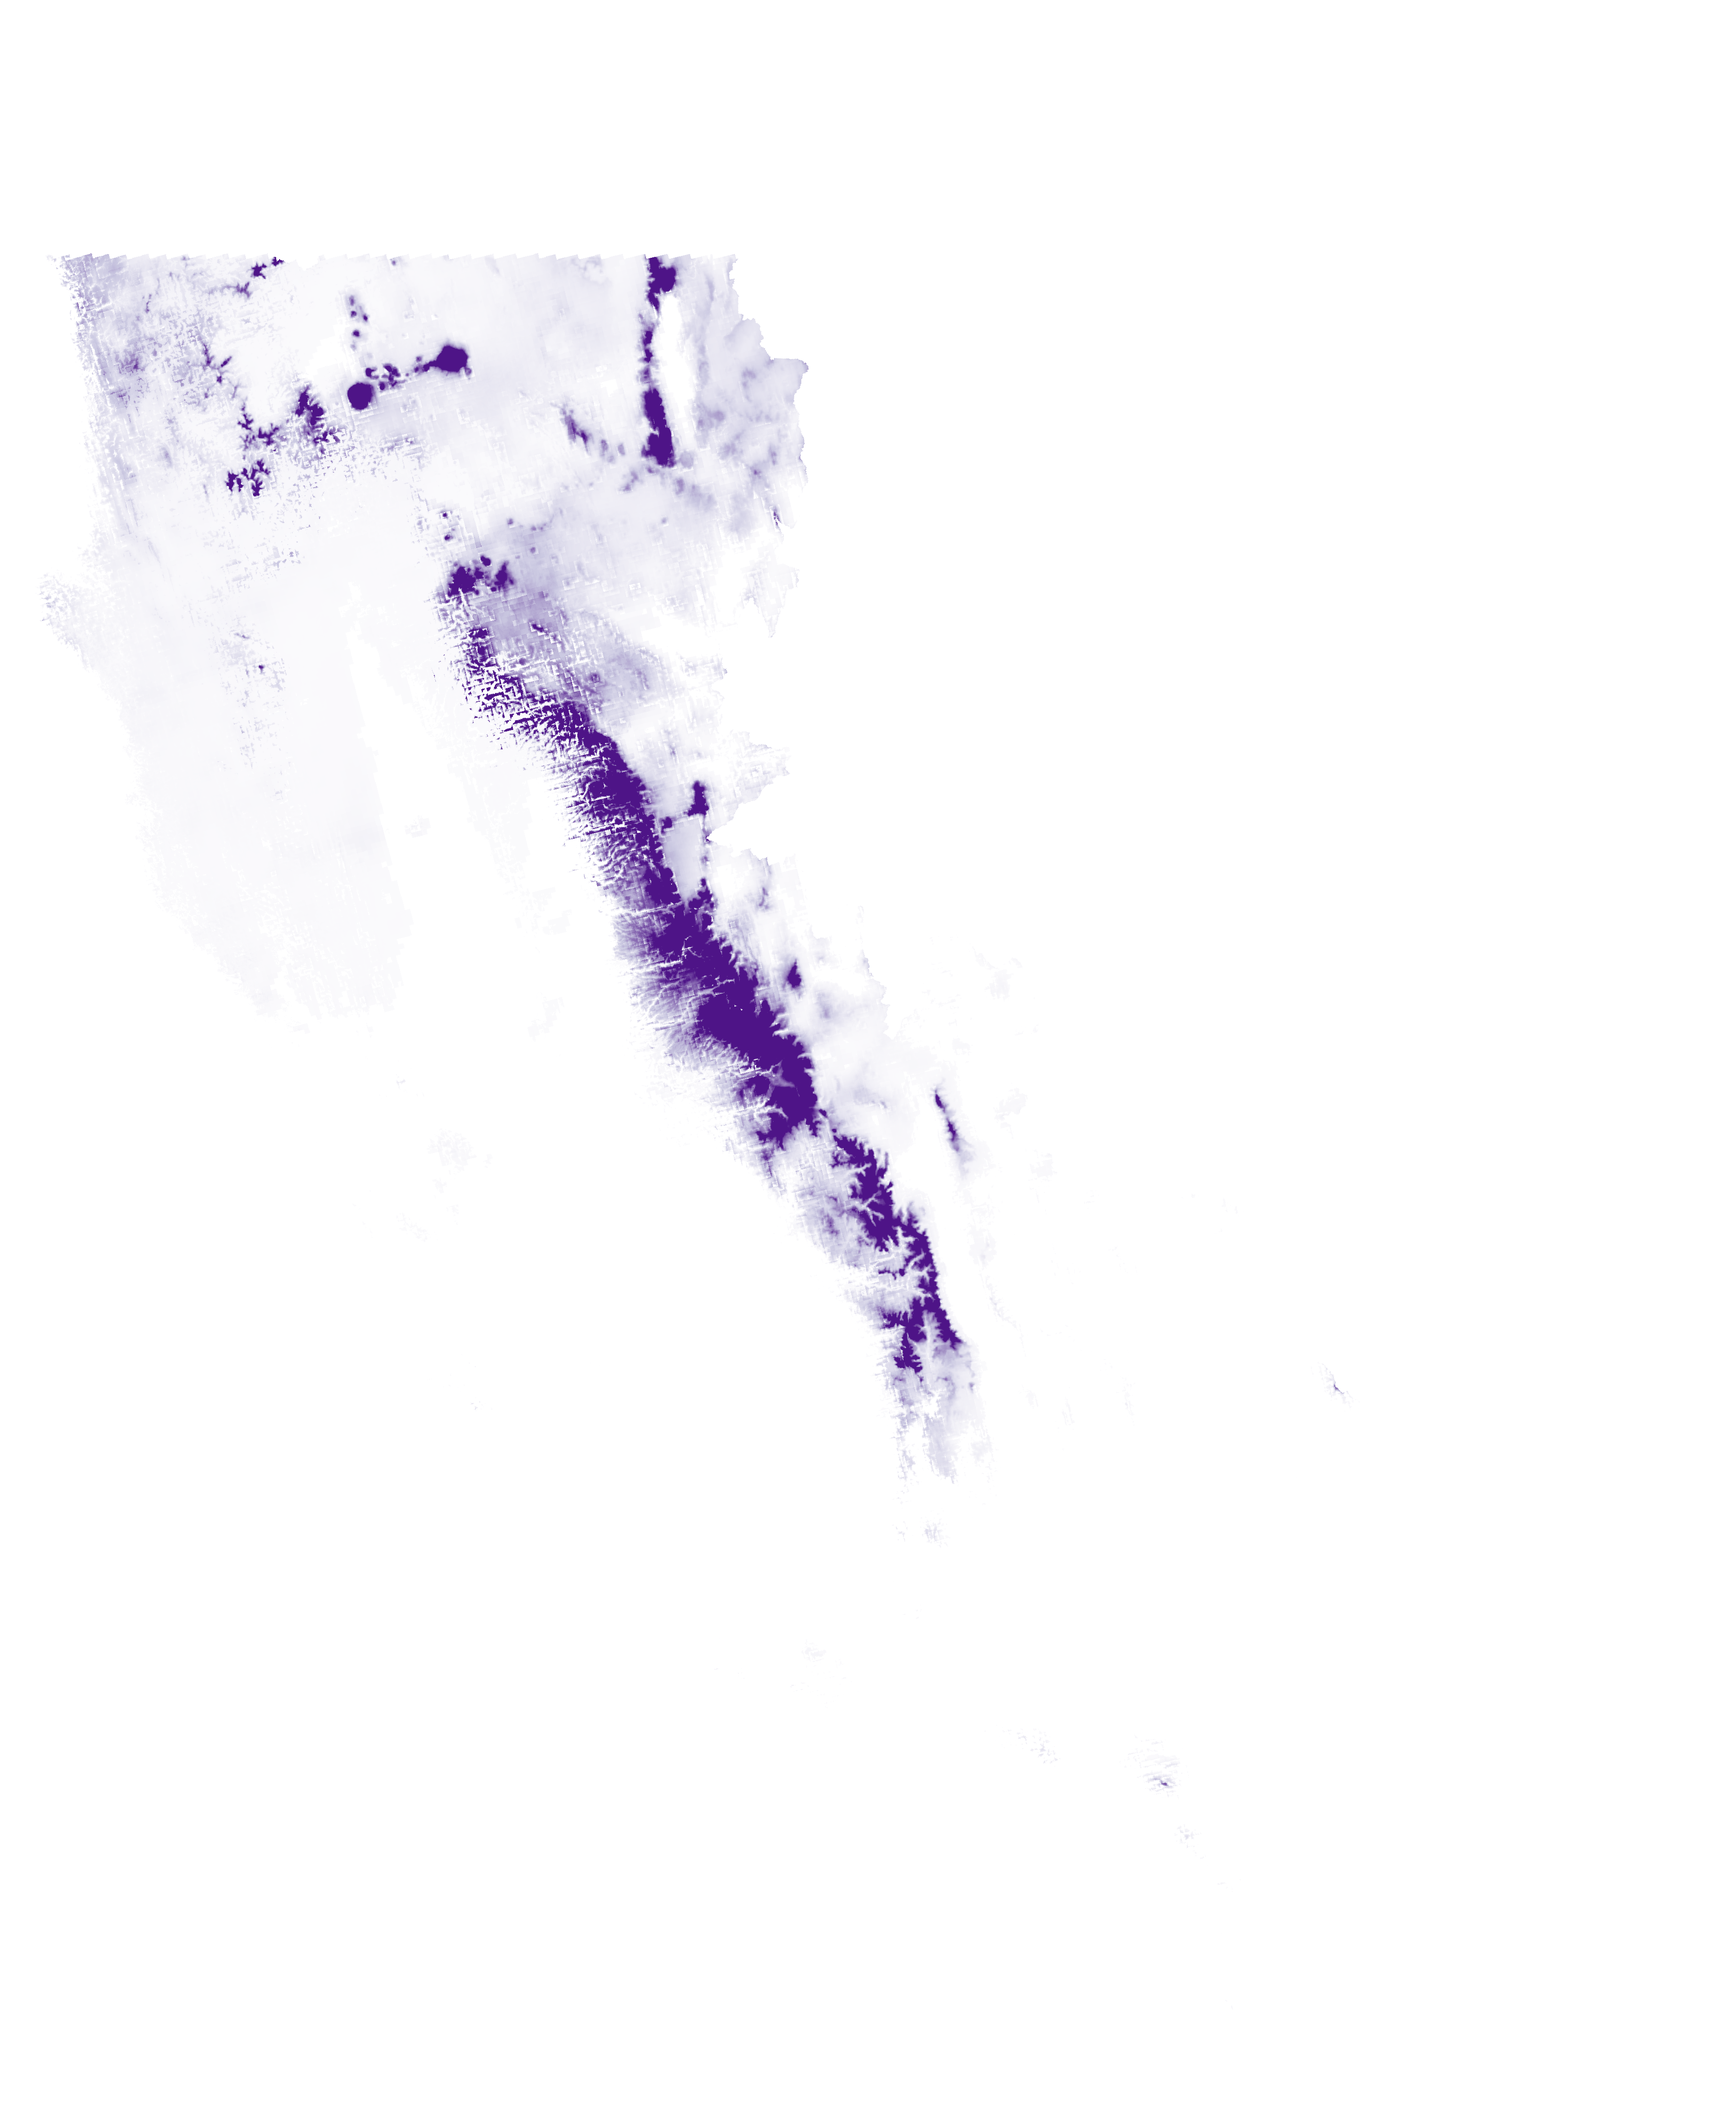
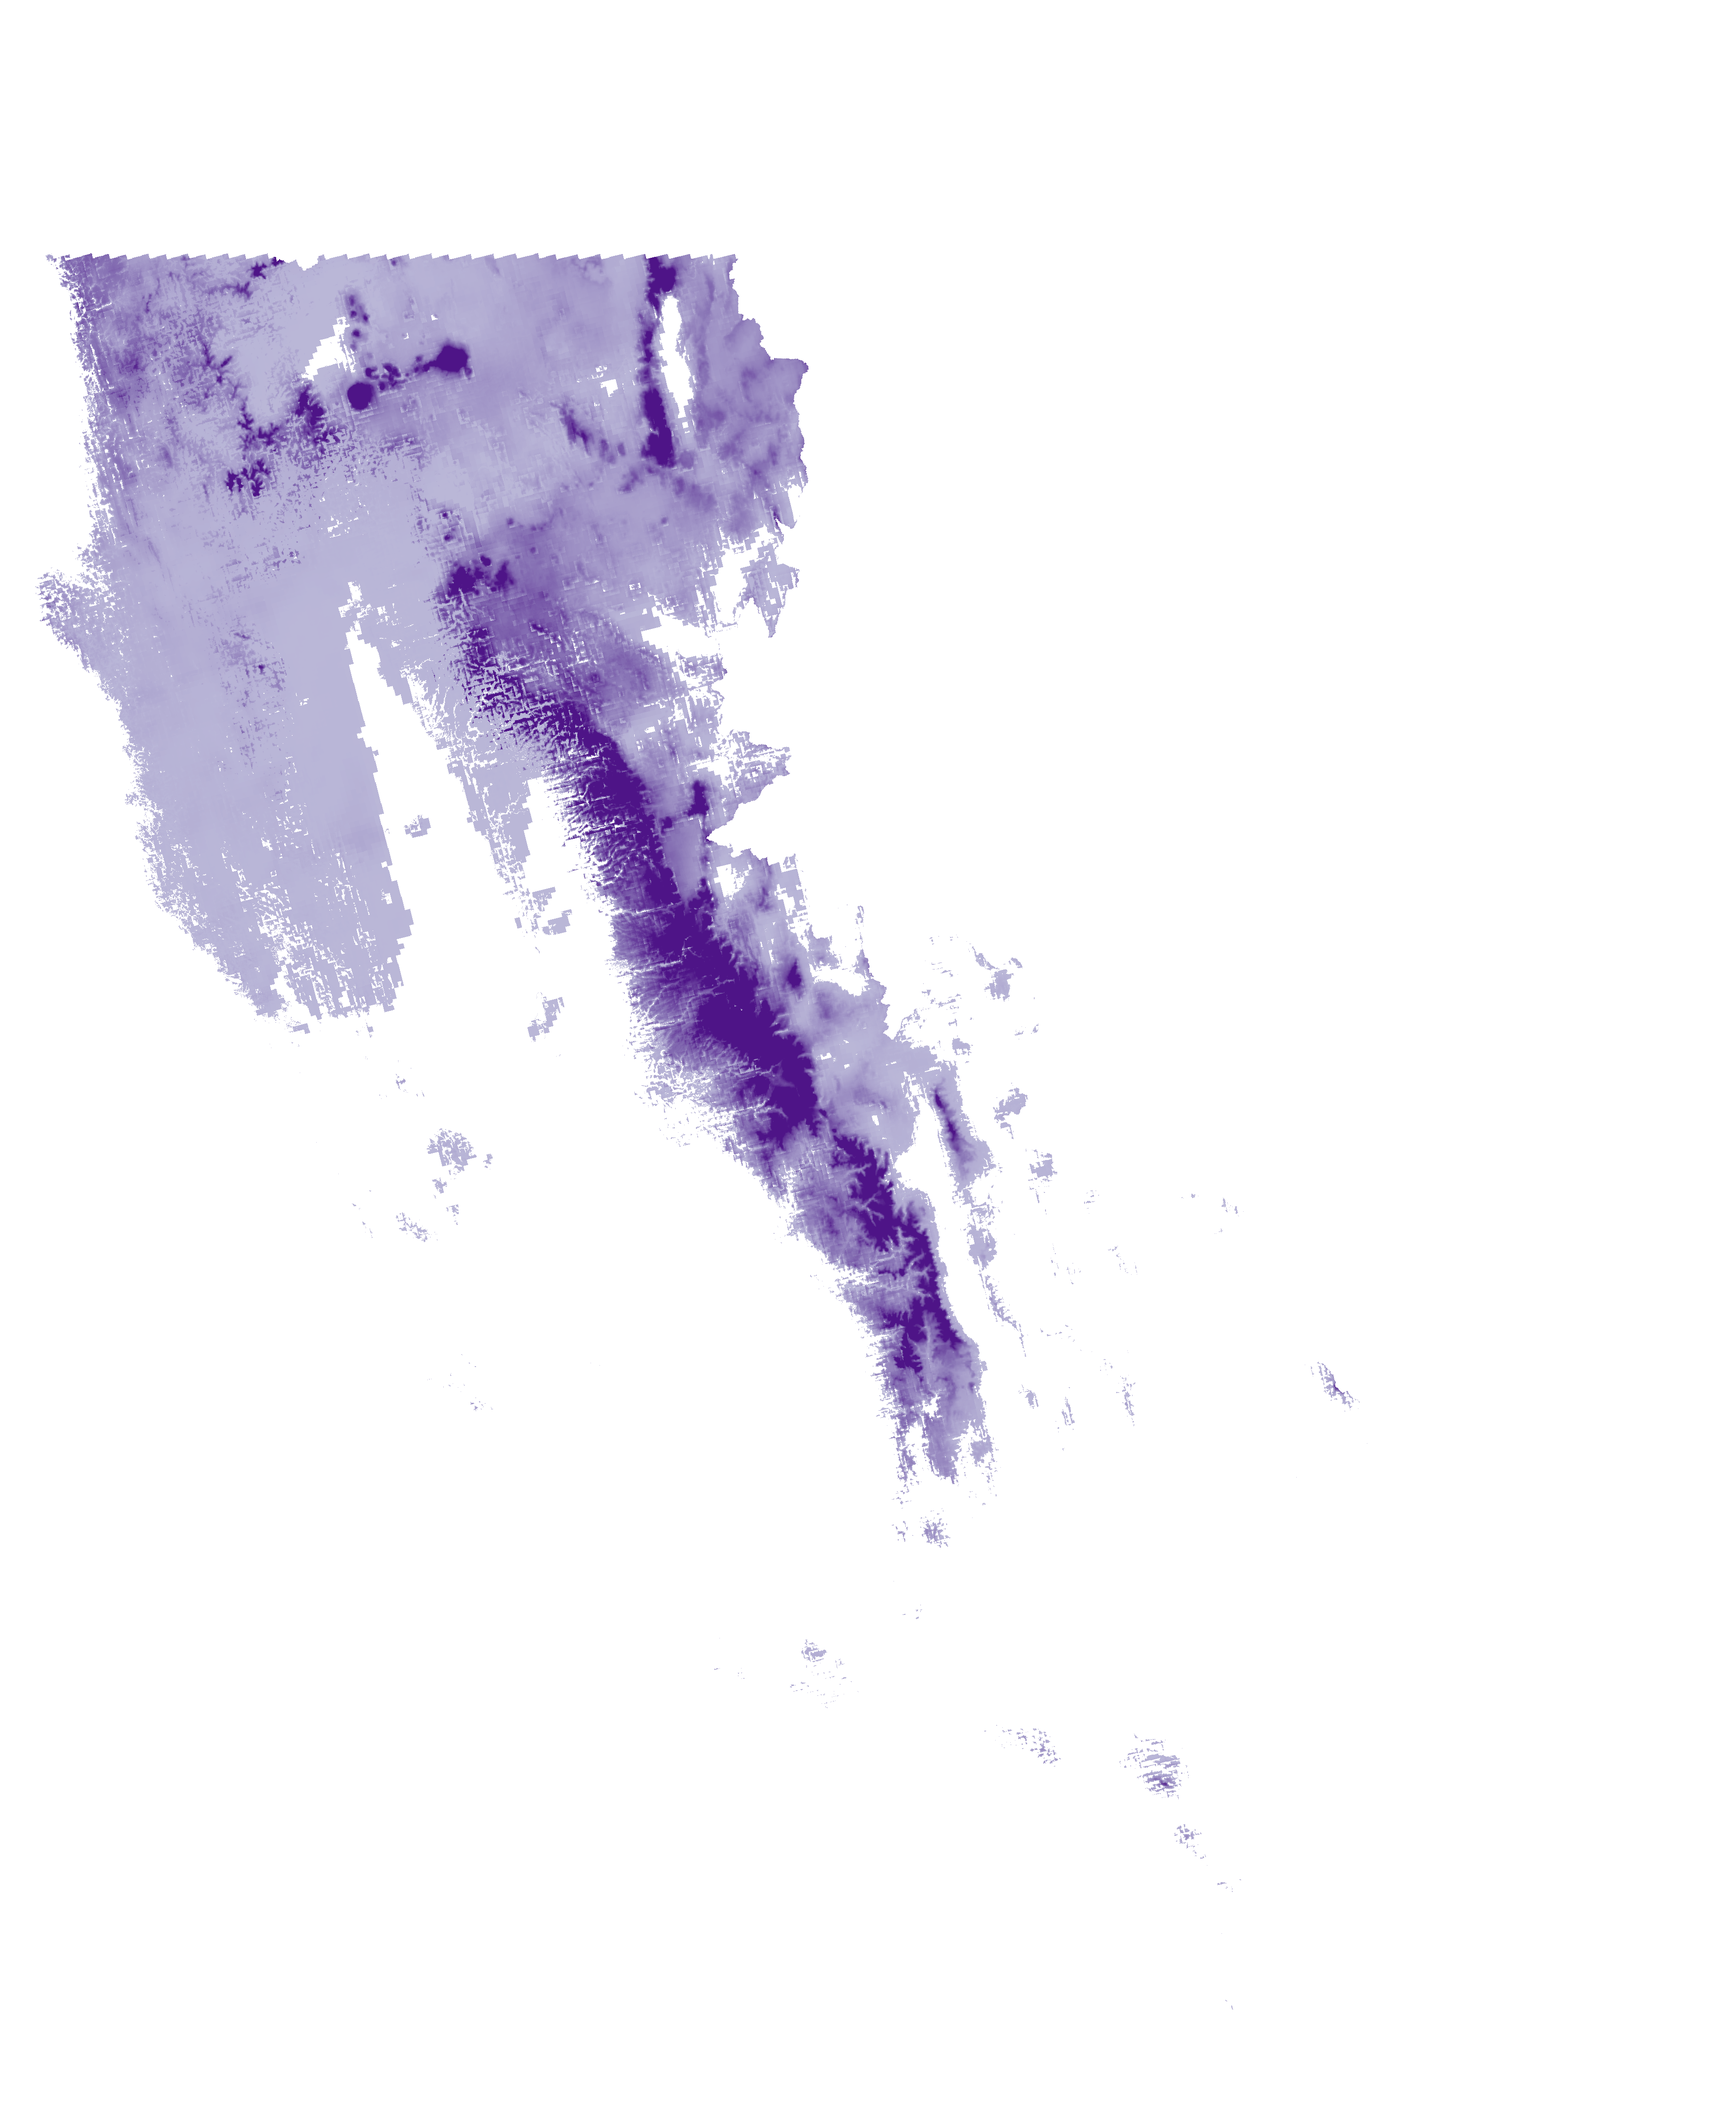
Show the forecast on a topographic map and make the three colors readable.

diff --git a/index.html b/index.html
@@ -56,9 +56,9 @@
   .hours { color: var(--muted); font-size: 13px; }
   .legend { display: flex; align-items: center; gap: 8px; margin-left: auto; font-size: 12px; color: var(--muted); }
   .swatch { width: 160px; height: 8px; border-radius: 99px; }
-  .swatch.run { background: linear-gradient(90deg, #deebf7, #6baed6, #08306b); }
-  .swatch.rch { background: linear-gradient(90deg, #e5f5e0, #74c476, #006d2c); }
-  .swatch.pck { background: linear-gradient(90deg, #efedf5, #9e9ac8, #3f007d); }
+  .swatch.run { background: linear-gradient(90deg, #6baed6, #2171b5, #08306b); }
+  .swatch.rch { background: linear-gradient(90deg, #74c476, #238b45, #005a32); }
+  .swatch.pck { background: linear-gradient(90deg, #9e9ac8, #6a51a3, #3f007d); }
   #loading {
     position: fixed;
     inset: 0;
@@ -183,7 +183,7 @@ function paint() {
     }
     document.body.classList.add("ready");
   };
-  frame.src = day.images[key];
+  frame.src = day.images[key] + "?v=topo";
   if (frame.complete && frame.naturalWidth) frame.onload();
   document.getElementById("hours").textContent = day.hours === 24 ? "full day" : day.hours + " of 24 hours";
   document.getElementById("mean").textContent = "Area mean " + format(day.mean[key]);
@@ -237,16 +237,16 @@ fetch("manifest.json").then((response) => response.json()).then((data) => {
   });
   map = L.map("map", { minZoom: 5, maxZoom: 14 });
   map.createPane("labels");
-  map.getPane("labels").style.zIndex = 450;
+  map.getPane("labels").style.zIndex = 650;
   map.getPane("labels").style.pointerEvents = "none";
-  const gray = "https://server.arcgisonline.com/ArcGIS/rest/services/Canvas/World_Light_Gray_";
-  L.tileLayer(gray + "Base/MapServer/tile/{z}/{y}/{x}", {
-    attribution: "Esri, HERE, Garmin, &copy; OpenStreetMap contributors",
-    maxZoom: 16
+  const esri = "https://server.arcgisonline.com/ArcGIS/rest/services/";
+  L.tileLayer(esri + "World_Topo_Map/MapServer/tile/{z}/{y}/{x}", {
+    attribution: "Esri, USGS, NOAA, &copy; OpenStreetMap contributors",
+    maxZoom: 19
   }).addTo(map);
-  L.tileLayer(gray + "Reference/MapServer/tile/{z}/{y}/{x}", {
+  L.tileLayer(esri + "Reference/World_Reference_Overlay/MapServer/tile/{z}/{y}/{x}", {
     pane: "labels",
-    maxZoom: 16
+    maxZoom: 19
   }).addTo(map);
   map.fitBounds(manifest.bounds, { padding: [12, 12] });
   paint();
